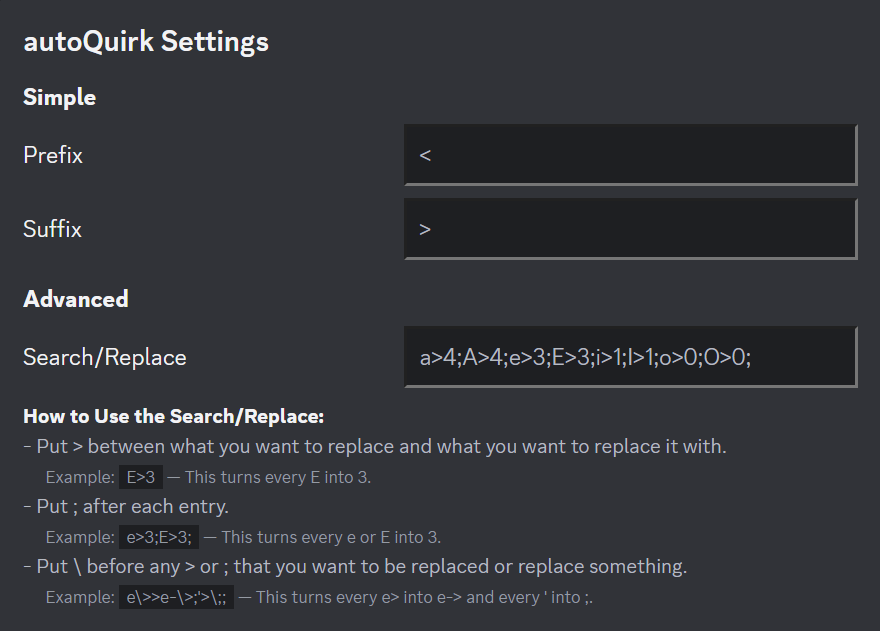
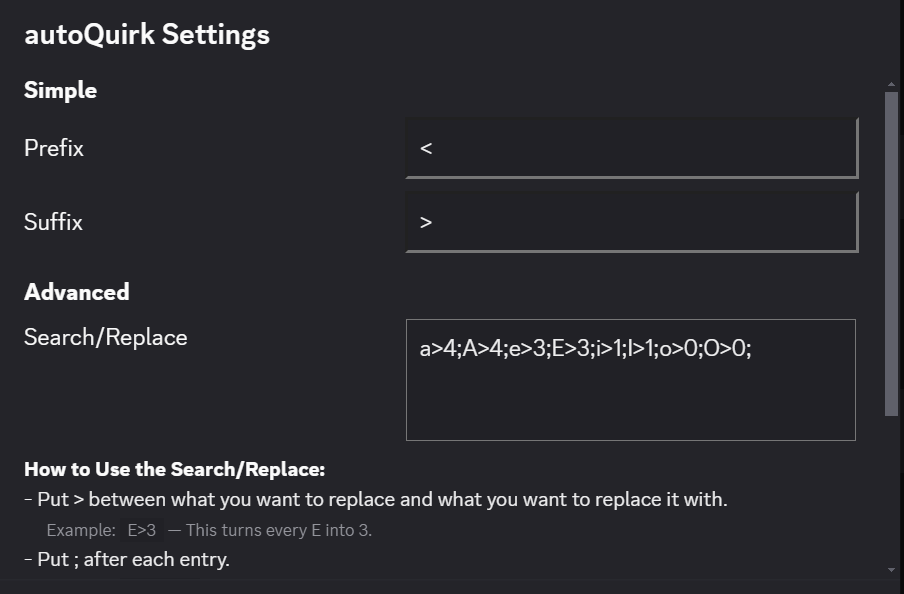
Update 1.0.3
- Added to the explanation of the Search/Replace function.
- Made the Search/Replace box multi-line for better user visibility.
- Updated the first example image to account for the change in the Search/Replace textbox.

diff --git a/autoQuirk.plugin.js b/autoQuirk.plugin.js
@@ -1,8 +1,8 @@
 /**
  *@name autoQuirk
  *@author Fungustober
- *@version 1.0.2
- *@description Automatically style your text like Homestuck trolls.
+ *@version 1.0.3
+ *@description Automatically styles your messages.
  */
 
 //TODO:
@@ -14,18 +14,37 @@
 // 		2. Replace the code that allows us to do the message stuff - DONE
 // 		3. Remove the code that gets the library - DONE
 // - Create a changelog displayer - DONE
-// - Figure out what's next
+// - Figure out what's next - IN PROGRESS
 // 		- Regex maybe?
 
-const pluginVersion = "1.0.2";
+// PLANNING FOR FUTURE FEATURES:
+// Maybe the Regex should be its own box so we can have more than one thing in the advanced section
+// So there's "simple search/replace" and "regex search/replace"
+// Could it be split into two things? i.e. Regex Search & Regex Replace
+// And we can define the area that a regex search/replace is in with something like /regexhere/, so /regex1here/ /regex2here/
+// Problem 1: that conflicts with what is established in the simple search/replace
+// Problem 2: this could create "desyncs" between the search and replace very easily
+// We can do something like: /regex_searcher_here/ > /regex_replacer_here/;
+// My main worry with that is that we could run into problems very easily where someone has to crawl through a lot of text to get to the one they
+	// want to edit
+// Can we make the textboxes have text wrap? yes
+// Is there anything else we can add to the simple section? Prefix, suffix, ???
+// What about a signature?
+// You can have a forum signature thing, and then activate it by typing in a pre-determined character sequence
+// Anything else?
+// Can we define simple tags for colors?
+// That seems dangerous. Would this be something that only happens on your end, or on everyone's end? I'm pretty sure discord text-ifies html tags
+	// that get sent through sendMessage, so even if we wanted to, it wouldn't even work.
+
+const pluginVersion = "1.0.3";
 
 const changelog = {
-	description: "One small change.",
+	description: "Additional small changes.",
 	updates: [
-		//"None"
 	],
 	fixes: [
-		"Improved the code by removing the .innerhtml and .outerhtml invocations."
+		"Added to the explanation of the Search/Replace function.",
+		"Made the Search/Replace box multi-line for better user visibility."
 	]
 };
 
@@ -38,8 +57,11 @@ const tempSettings = {
 
 //styling constants for the settings menu
 const wrapperStyle = "margin-bottom: 8px; width: 100%;";
-const boxLabelStyle = "position: relative; display: inline; flex: 1 1 auto; color: var(--header-primary); line-height: 24px; font-size: 16px; display:inline-block; margin-left:0; margin-right: auto; width:45%;";
+const areaWrapperStyle = "margin-bottom: 8px; display: flex; align-items: top; margin-right: 10px;";
+const boxLabelStyle = "position: relative; flex: 1 1 auto; color: var(--header-primary); line-height: 24px; font-size: 16px; display:inline-block; margin-left:0; margin-right: auto; width:45%;";
+const areaLabelStyle = "position: relative; flex: 1 1 auto; color: var(--header-primary); line-height: 24px; font-size: 16px; display:inline-block; margin-left:0; margin-right: auto; width:45%;";
 const boxStyle = "position: relative; padding: 8px 8px 8px 8px; font-size: 16px; color: var(--header-secondary); background-color: var(--input-background); display:inline-block; margin-right:0; margin-left: auto; width:50%;";
+const areaStyle = "resize: none; position: relative; padding: 8px 8px 8px 8px; font-size: 16px; color: var(--header-secondary); background-color: var(--input-background); display:inline-block; margin-right:0; margin-left: auto; width:50%; flex: 1 1 auto;";
 const noteHeaderStyle = "color: var(--header-primary); line-height: 12px; font-size: 14px; font-weight: bold; margin-top: 20px;";
 const noteStyle = "color: var(--header-secondary); line-height: 14px; font-size: 14px;";
 const exampleInitialStyle = "color: var(--text-muted); line-height: 12px; font-size: 12px; margin-left: 15px;";
@@ -58,11 +80,13 @@ module.exports = class autoQuirk {
         this.defaults = {
             prefix: {
                 value: "",
-                description: "Prefix"
+                description: "Prefix",
+				placeholder: "Enter text to add a prefix..."
             },
             suffix: {
                 value: "",
-                description: "Suffix"
+                description: "Suffix",
+				placeholder: "Enter text to add a suffix..."
             },
             searchReplace: {
                 value: "",
@@ -74,9 +98,13 @@ module.exports = class autoQuirk {
 				note2: "- Put ; after each entry.",
 				example2a: "e>3;E>3;",
 				example2b: "This turns every e or E into 3.",
+				note4: "- Don't put spaces between your text and the > or ;, unless you want to have extra spaces in your text.",
+				example4a: "e > E ; b > B ;",
+				example4b: "This turns only \"e \" into \" E \" and only \" b \" into \" B \".",
                 note3: "- Put \\ before any > or ; that you want to be replaced or replace something.",
 				example3a: "e\\>>e-\\>;'>\\;;",
-				example3b: "This turns every e> into e-> and every ' into ;."
+				example3b: "This turns every e> into e-> and every ' into ;.",
+				placeholder: "Add search/replace statements here..."
             }
         };
     }
@@ -122,6 +150,7 @@ module.exports = class autoQuirk {
 
         //load the settings
         let loadedSettings = BdApi.Data.load("autoQuirk", "settings");
+		
 
         //put them into variables
         let pSettings = loadedSettings["prefix"];
@@ -134,15 +163,17 @@ module.exports = class autoQuirk {
 
         //create all the different pieces and then jam them into the settings panel
         let settingsPanel = this.createSettingsPanel(
-                this.createTextBox("prefix", pfix.description, pSettings),
-                this.createTextBox("suffix", sfix.description, sSettings),
-                this.createTextBox("searchReplace", srp.description, rSettings),
+                this.createTextBox("prefix", pfix.description, pSettings, pfix.placeholder),
+                this.createTextBox("suffix", sfix.description, sSettings, sfix.placeholder),
+                this.createTextArea("searchReplace", srp.description, rSettings, srp.placeholder),
                 this.createGroup([
                         this.createNote(srp.noteHeader, noteHeaderStyle),
                         this.createNote(srp.note1, noteStyle),
 						this.createExample(srp.example1a, srp.example1b),
                         this.createNote(srp.note2, noteStyle),
 						this.createExample(srp.example2a, srp.example2b),
+						this.createNote(srp.note4, noteStyle),
+						this.createExample(srp.example4a, srp.example4b),
                         this.createNote(srp.note3, noteStyle),
 						this.createExample(srp.example3a, srp.example3b)
                     ]));
@@ -184,6 +215,10 @@ module.exports = class autoQuirk {
                 else {
                     //do things based on what the character is
                     switch (sr[i]) {
+						//if it's a \n (somehow), then
+					case "\n":
+						//do nothing, skip it
+						break;
                         //if it's a \, then
                     case "\\":
                         //tell the system the user has entered an escape character
@@ -294,10 +329,8 @@ module.exports = class autoQuirk {
         return settingsPanel;
     }
 
-    createTextBox(boxName, boxLabel, boxValue) {
-        //TO DO: Add CSS styling to elements
-
-        //create a div to hold the text box stuff
+    createTextBox(boxName, boxLabel, boxValue, boxPlaceholder = null) {
+		//create a div to hold the text box stuff
         let textBoxElement = document.createElement("div");
         textBoxElement.classList.add("setting");
         textBoxElement.classList.add("fungustober");
@@ -307,11 +340,15 @@ module.exports = class autoQuirk {
         let elementLabel = document.createElement("div");
         elementLabel.textContent = boxLabel;
         elementLabel.style = boxLabelStyle;
+		elementLabel.for = boxName;
 
         //create the actual text box
         let elementInput = document.createElement("input");
         elementInput.type = "text";
         elementInput.name = boxName;
+		if (boxPlaceholder != null){
+			elementInput.placeholder = boxPlaceholder;
+		}
         elementInput.style = boxStyle;
         //add the data and a listener to update the data
         elementInput.value = boxValue;
@@ -326,6 +363,42 @@ module.exports = class autoQuirk {
         //send the element back
         return textBoxElement;
     }
+
+	createTextArea(areaName, areaLabel, areaValue, areaPlaceholder = null) {
+		//div
+		let textAreaElement = document.createElement("div");
+		textAreaElement.classList.add("setting");
+		textAreaElement.classList.add("fungustober");
+		textAreaElement.style = areaWrapperStyle;
+		
+		//label
+		let elementLabel = document.createElement("div");
+		elementLabel.textContent = areaLabel;
+		elementLabel.style = areaLabelStyle;
+		elementLabel.for = areaName;
+		
+		//text
+		let areaInput = document.createElement("textarea");
+		areaInput.name = areaName;
+		areaInput.id = areaName;
+		//TODO: maybe let the user control how many rows there are?
+		areaInput.rows = 5;
+		if (areaPlaceholder != null){
+			areaInput.placeholder = areaPlaceholder;
+		}
+		areaInput.style = areaStyle;
+		areaInput.value = areaValue;
+		areaInput.addEventListener("change", () => {
+			tempSettings[areaName] = areaInput.value;
+			BdApi.Data.save("autoquirk", "settings", tempSettings);
+		});
+		
+		//parent
+		textAreaElement.append(elementLabel, areaInput);
+		
+		//return
+		return textAreaElement;
+	}
 
     createNote(noteText, style) {
         //div
